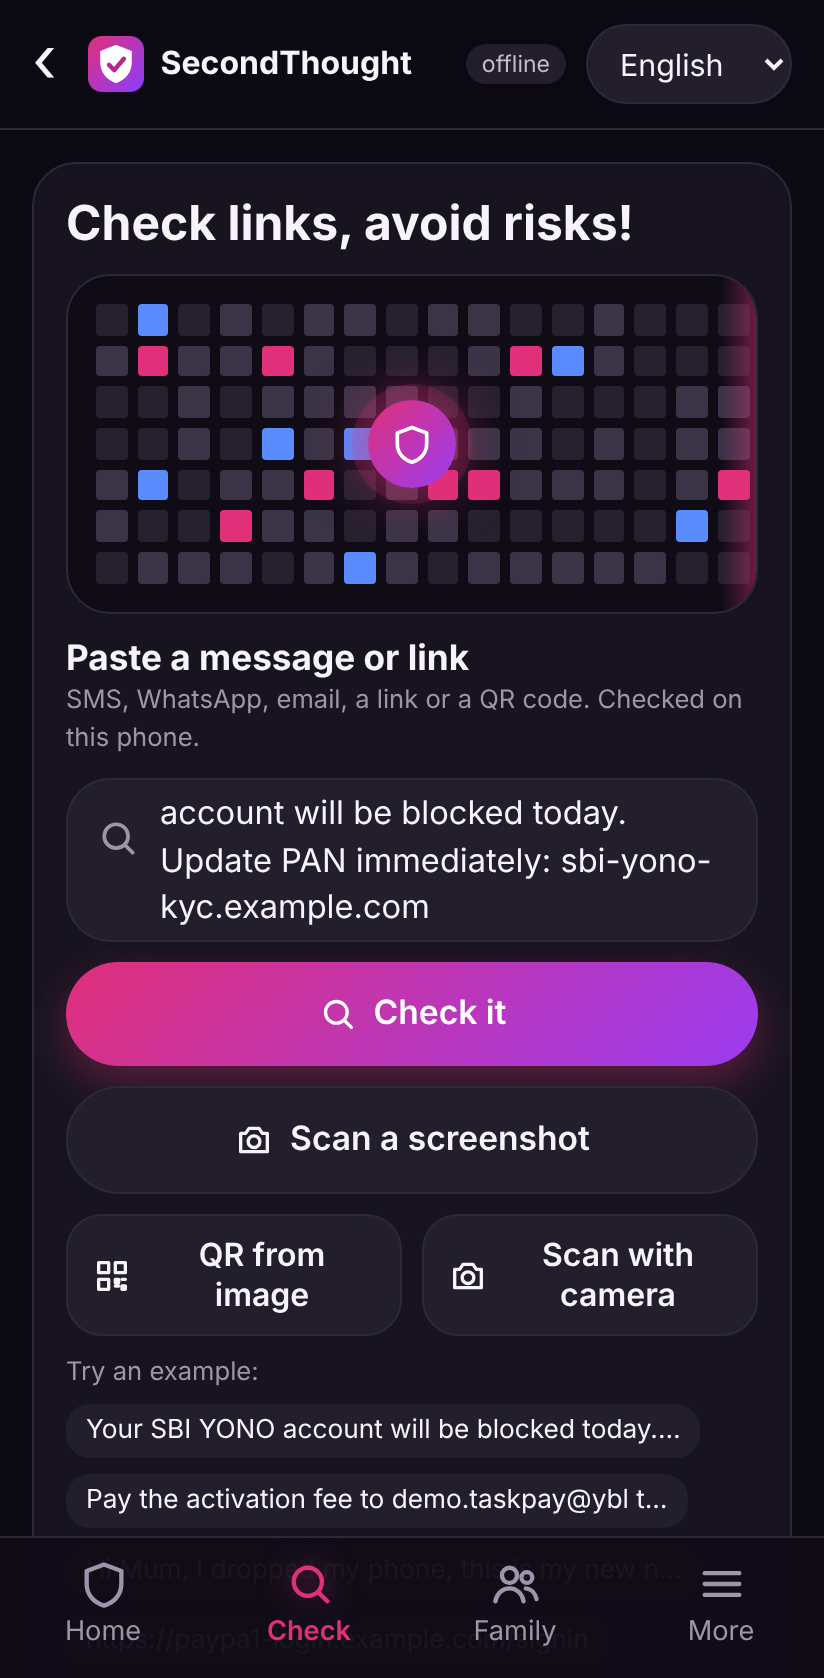
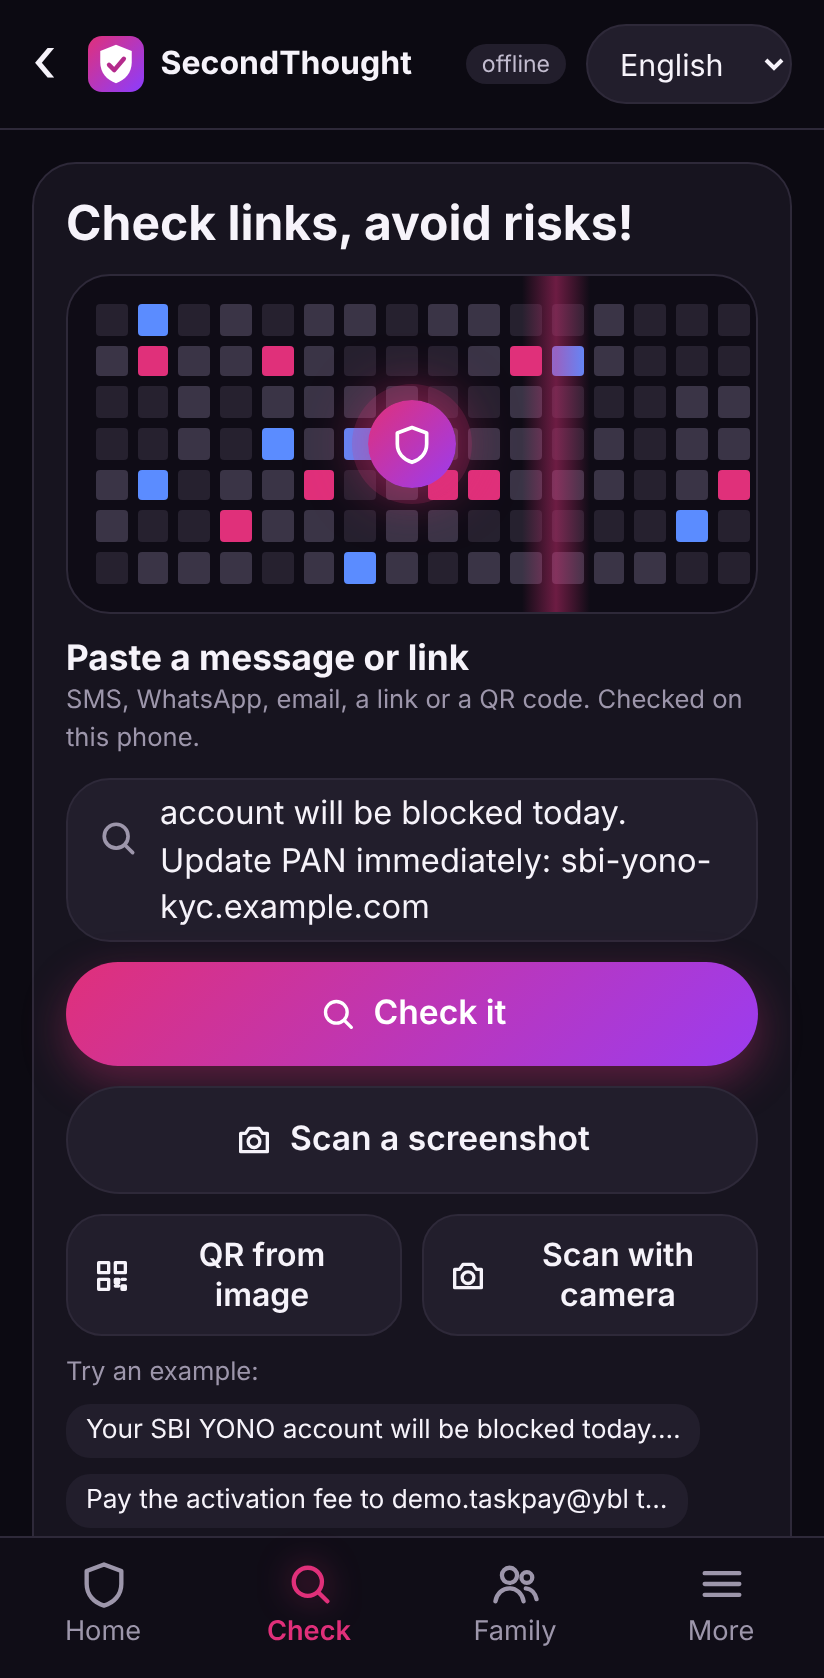
Smooth screen transitions and motion
- Opening a screen slides it in from the right, going back slides from the left, switching bottom
  tabs fades and zooms slightly (View Transitions API, CSS fallback); top bar and tab bar stay still
- Tab icon bounce, press feedback on cards and buttons, results / bubbles / cards rise in
- One transition at a time (fast taps switch instantly); transition names applied only while a
  transition plays, so the Stop screen stays above the tab bar
- Off when the phone's 'Remove animations' setting is on

Changed region(s): [[0.6371, 0.1549, 0.7282, 0.3719], [0.8799, 0.1549, 0.9405, 0.3719]]

diff --git a/src/styles.css b/src/styles.css
@@ -547,3 +547,53 @@ main.bare { padding-top: 22px; }
 .nav { background: #100d17; }
 .topbar { background: #0c0a12; }
 main { padding-bottom: 110px; }
+
+/* ================================================================ motion */
+/* screen transitions (View Transitions API): only the page moves; top bar and tab bar stay put */
+/* names only while a transition plays: a permanent name would change stacking and put overlays
+   (the Stop screen) under the tab bar */
+html[data-vt] .topbar { view-transition-name: topbar; }
+html[data-vt] .nav { view-transition-name: tabbar; }
+html[data-vt] main.page-anim { view-transition-name: page; }
+::view-transition-old(root), ::view-transition-new(root) { animation: none; }
+::view-transition-group(page) { animation-duration: .26s; }
+html[data-nav="forward"]::view-transition-old(page) { animation: vt-out-left .24s ease both; }
+html[data-nav="forward"]::view-transition-new(page) { animation: vt-in-right .28s cubic-bezier(.2, .8, .2, 1) both; }
+html[data-nav="back"]::view-transition-old(page) { animation: vt-out-right .24s ease both; }
+html[data-nav="back"]::view-transition-new(page) { animation: vt-in-left .28s cubic-bezier(.2, .8, .2, 1) both; }
+html[data-nav="tab"]::view-transition-old(page) { animation: vt-fade-out .16s ease both; }
+html[data-nav="tab"]::view-transition-new(page) { animation: vt-zoom-in .26s cubic-bezier(.2, .8, .2, 1) both; }
+@keyframes vt-in-right { from { transform: translateX(28%); opacity: 0; } to { transform: none; opacity: 1; } }
+@keyframes vt-in-left { from { transform: translateX(-28%); opacity: 0; } to { transform: none; opacity: 1; } }
+@keyframes vt-out-left { to { transform: translateX(-12%); opacity: 0; } }
+@keyframes vt-out-right { to { transform: translateX(12%); opacity: 0; } }
+@keyframes vt-fade-out { to { opacity: 0; } }
+@keyframes vt-zoom-in { from { transform: scale(.97); opacity: 0; } to { transform: none; opacity: 1; } }
+/* fallback for WebViews without View Transitions: the new screen eases in */
+@supports not (view-transition-name: none) {
+  main.page-anim { animation: vt-in-right .28s cubic-bezier(.2, .8, .2, 1) both; }
+  html[data-nav="back"] main.page-anim { animation-name: vt-in-left; }
+  html[data-nav="tab"] main.page-anim { animation-name: vt-zoom-in; }
+}
+
+/* active tab icon: small bounce */
+.nav a.active svg { animation: tab-pop .35s cubic-bezier(.3, 1.6, .5, 1); }
+@keyframes tab-pop { 0% { transform: scale(.7); } 60% { transform: scale(1.15); } 100% { transform: scale(1); } }
+
+/* press feedback on everything tappable */
+.btn, .quick, .bigaction, .callbig, .listitem, .choice, .statchip, .iconbtn, .card.campaign, .camplist summary, .nav a { transition: transform .12s ease, filter .12s ease, background-color .2s ease; }
+.btn:active:not(:disabled), .quick:active, .bigaction:active, .callbig:active, .listitem:active, .choice:active, .iconbtn:active, .card.campaign:active, .camplist summary:active { transform: scale(.97); filter: brightness(1.08); }
+.nav a:active { transform: scale(.92); }
+
+/* things that appear: rise and fade in */
+@keyframes rise-in { from { transform: translateY(14px); opacity: 0; } to { transform: none; opacity: 1; } }
+.resultcard, .bubble, .banner, .scorebars, .camprow, .signout-card, .statuspill, .summary, .statchips, .quickgrid, .card.trap { animation: rise-in .32s cubic-bezier(.2, .8, .2, 1) both; }
+.statchips { animation-delay: .05s; } .quickgrid { animation-delay: .1s; } .card.trap { animation-delay: .15s; }
+.bubble.persona { animation-delay: .05s; }
+.overlay { animation: overlay-in .3s ease both; }
+.overlay .inner { animation: rise-in .4s .05s cubic-bezier(.2, .8, .2, 1) both; }
+@keyframes overlay-in { from { opacity: 0; } to { opacity: 1; } }
+
+@media (prefers-reduced-motion: reduce) {
+  *, *::before, *::after, ::view-transition-old(page), ::view-transition-new(page) { animation: none !important; transition: none !important; }
+}

diff --git a/src/App.jsx b/src/App.jsx
@@ -1,4 +1,5 @@
-import { useEffect, useState } from "react";
+import { useEffect, useRef, useState } from "react";
+import { flushSync } from "react-dom";
 import { api, store } from "./api.js";
 import Icon from "./components/Icon.jsx";
 import { LANGS, LangContext, translate } from "./i18n.js";
@@ -24,11 +25,39 @@ import LockScreen from "./components/LockScreen.jsx";
 import { getProfile, lockEnabled } from "./profile.js";
 import Shield from "./pages/Shield.jsx";
 
+const TAB_BASES = new Set(["", "check", "family", "more"]);
+const baseOf = (p) => (p.split("?")[0].match(/^\/([^/]*)/) || [, ""])[1];
+const calmMotion = () => { try { return Boolean(window.__noMotion) || window.matchMedia("(prefers-reduced-motion: reduce)").matches; } catch { return false; } };   // __noMotion: automated tests only
+
+// Hash router with smooth screen transitions: forward slides in from the right, back from the left,
+// switching bottom tabs cross-fades. Uses the View Transitions API when the WebView has it.
 function useHashRoute() {
   const read = () => (location.hash.replace(/^#/, "") || "/");
   const [path, setPath] = useState(read);
+  const stack = useRef([read()]);
+  const running = useRef(false);
   useEffect(() => {
-    const on = () => { setPath(read()); window.scrollTo(0, 0); };
+    const on = () => {
+      const next = read();
+      const st = stack.current;
+      const prev = st[st.length - 1];
+      let dir = "forward";
+      if (st.length > 1 && st[st.length - 2] === next) { dir = "back"; st.pop(); }
+      else { st.push(next); if (st.length > 40) st.shift(); }
+      if (dir !== "back" && TAB_BASES.has(baseOf(prev)) && TAB_BASES.has(baseOf(next)) && baseOf(prev) !== baseOf(next)) dir = "tab";
+      document.documentElement.dataset.nav = dir;
+      const apply = () => { setPath(next); window.scrollTo(0, 0); };
+      // One transition at a time: if one is still running (fast taps), switch straight away.
+      if (document.startViewTransition && !calmMotion() && !running.current && document.visibilityState === "visible") {
+        running.current = true;
+        document.documentElement.dataset.vt = "1";
+        const vt = document.startViewTransition(() => flushSync(apply));
+        const done = () => { running.current = false; delete document.documentElement.dataset.vt; };
+        vt.finished.then(done, done);
+        vt.ready.catch(() => {});
+        vt.updateCallbackDone.catch(() => {});
+      } else apply();
+    };
     window.addEventListener("hashchange", on);
     return () => window.removeEventListener("hashchange", on);
   }, []);
@@ -147,14 +176,14 @@ function Shell({ lang, setLang, large, setLarge }) {
           <Icon name="shield" />Protected call in progress · risk {s.snap?.score ?? 0}/100. Tap to return.
         </a>
       ) : null}
-      <main className={wide ? "wide" : ""}>{page}</main>
+      <main className={`${wide ? "wide " : ""}page-anim`} key={rawPath}>{page}</main>
       {overlay}
       <nav className="nav big" aria-label="Main">
         {NAV.map((n) => {
           const active = n.match.includes(base || "");
           return (
             <a key={n.path} href={`#${n.path}`} className={active ? "active" : ""} aria-current={active ? "page" : undefined}>
-              <Icon name={n.icon} />{t(n.key)}
+              <Icon name={n.icon} key={active ? "on" : "off"} />{t(n.key)}
             </a>
           );
         })}
